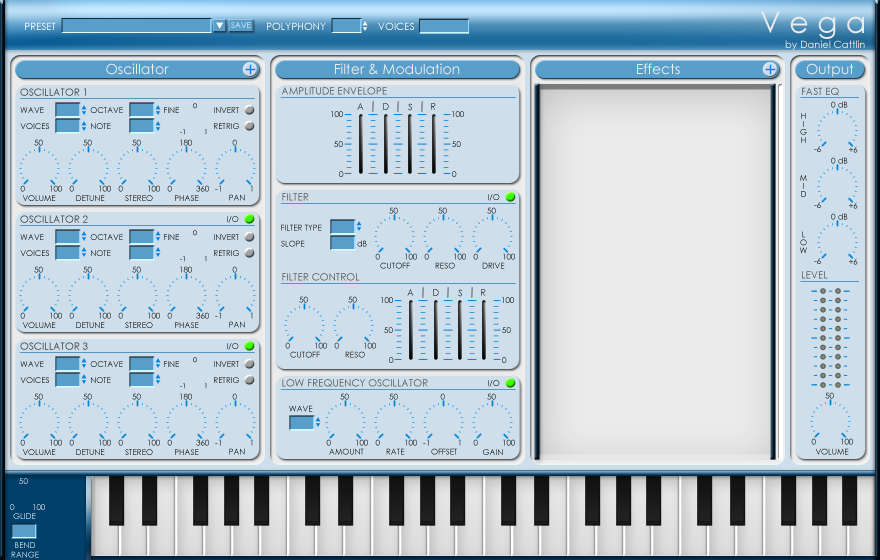
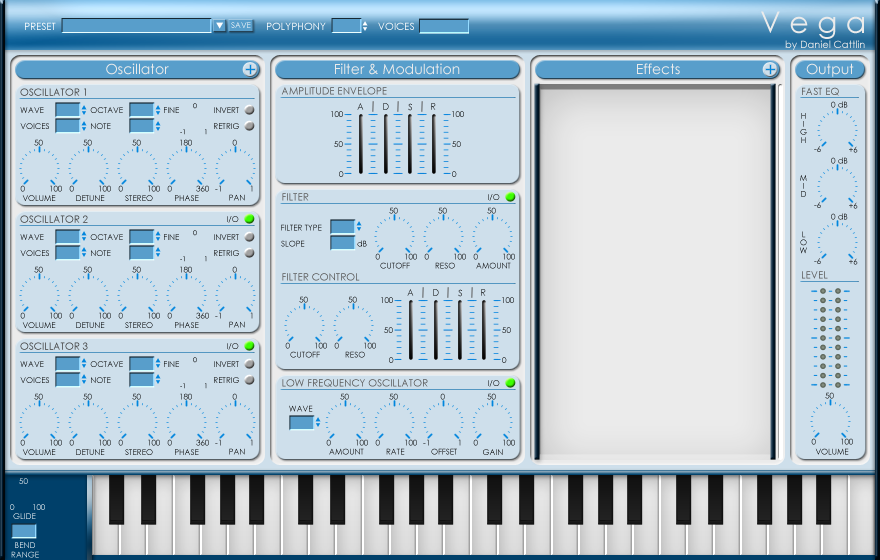
Adding interactive GUI

Changed region(s): [[0.092, 0.85, 1.0, 1.0], [0.092, 0.85, 0.1227, 0.9411], [0.5523, 0.4554, 0.583, 0.4857]]

diff --git a/Vega.cpp b/Vega.cpp
@@ -66,6 +66,9 @@ enum EParams
   mEQMid,
   mEQLow,
   mVolume,
+  mBendRange,
+  mGlide,
+  mPitchMod,
   kNumParams
 };
 
@@ -82,64 +85,67 @@ typedef struct
 } paramProperties;
 
 const paramProperties paramProps[kNumParams] = {
-  { "Osc 1 Wave", 30, 75, 0., 0., 0. },
-  { "Osc 1 Octave", 30, 75, 0., 0., 0. },
-  { "Osc 1 Voices", 30, 75, 0., 0., 0. },
-  { "Osc 1 Pitch", 69, 61, 0., 0., 0. },
-  { "Osc 1 Invert", 30, 75, 0., 0., 0. },
-  { "Osc 1 Retrig", 30, 75, 0., 0., 0. },
-  { "Osc 1 Fine", 30, 75, 0., -1., 1. },
-  { "Osc 1 Volume", 30, 75, 0., 0., 1. },
-  { "Osc 1 Detune", 30, 75, 0., 0., 1. },
-  { "Osc 1 Stereo", 30, 75, 0., 0., 1. },
-  { "Osc 1 Phase", 30, 75, 0., 0., 1. },
-  { "Osc 1 Pan", 30, 75, 0., -1., 1. },
-  { "Osc 2 Wave", 30, 75, 0., 0., 0. },
-  { "Osc 2 Octave", 30, 75, 0., 0., 0. },
-  { "Osc 2 Voices", 30, 75, 0., 0., 0. },
-  { "Osc 2 Pitch", 69, 61, 0., 0., 0. },
-  { "Osc 2 Invert", 30, 75, 0., 0., 0. },
-  { "Osc 2 Retrig", 30, 75, 0., 0., 0. },
-  { "Osc 2 Fine", 30, 75, 0., -1., 1. },
-  { "Osc 2 Volume", 30, 75, 0., 0., 1. },
-  { "Osc 2 Detune", 30, 75, 0., 0., 1. },
-  { "Osc 2 Stereo", 30, 75, 0., 0., 1. },
-  { "Osc 2 Phase", 30, 75, 0., 0., 1. },
-  { "Osc 2 Pan", 30, 75, 0., -1., 1. },
-  { "Osc 3 Wave", 30, 75, 0., 0., 0. },
-  { "Osc 3 Octave", 30, 75, 0., 0., 0. },
-  { "Osc 3 Voices", 30, 75, 0., 0., 0. },
-  { "Osc 3 Pitch", 69, 61, 0., 0., 0. },
-  { "Osc 3 Invert", 30, 75, 0., 0., 0. },
-  { "Osc 3 Retrig", 30, 75, 0., 0., 0. },
-  { "Osc 3 Fine", 30, 75, 0., -1., 1. },
-  { "Osc 3 Volume", 30, 75, 0., 0., 1. },
-  { "Osc 3 Detune", 30, 75, 0., 0., 1. },
-  { "Osc 3 Stereo", 30, 75, 0., 0., 1. },
-  { "Osc 3 Phase", 30, 75, 0., 0., 1. },
-  { "Osc 3 Pan", 30, 75, 0., -1., 1. },
-  { "Filter Type", 30, 188, 0., 0., 0. },
-  { "Filter Slope", 30, 188, 0., 0., 0. },
-  { "Filter Cutoff", 69, 174, 0.99, 0.0, 0.99 },
-  { "Filter Resonance", 124, 174, 0.0, 0.0, 1.0 },
-  { "Filter Env Amount", 234, 174, 0.0, -1.0, 1.0 },
-  { "Volume Env Attack", 323, 61, 0.01, 0.01, 10.0 },
-  { "Volume Env Decay", 378, 61, 0.5, 0.01, 15.0 },
-  { "Volume Env Sustain", 433, 61, 0.1, 0.001, 1.0 },
-  { "Volume Env Release", 488, 61, 1.0, 0.01, 15.0 },
-  { "Filter Env Attack", 323, 174, 0.01, 0.01, 10.0 },
-  { "Filter Env Decay", 378, 174, 0.5, 0.01, 15.0 },
-  { "Filter Env Sustain", 433, 174, 0.1, 0.001, 1.0 },
-  { "Filter Env Release", 488, 174, 1.0, 0.01, 15.0 },
-  { "LFO Waveform", 30, 298, 0., 0., 0. },
-  { "LFO Amount", 179, 174, 0.0, 0.0, 1.0 },
-  { "LFO Frequency", 69, 284, 6.0, 0.01, 30.0 },
-  { "LFO Offset", 69, 284, 6.0, 0.01, 30.0 },
-  { "LFO Gain", 69, 284, 6.0, 0.01, 30.0 },
-  { "EQ High", 323, 174, 1.0, 0.0, 2.0 },
-  { "EQ Mid", 378, 174, 1.0, 0.0, 2.0 },
-  { "EQ Low", 433, 174, 1.0, 0.0, 2.0 },
-  { "Out Vol", 433, 174, 1.0, 0.0, 1.0 }
+  { "Osc 1 Wave", 57, 104, 0., 0., 0. },
+  { "Osc 1 Octave", 131, 104, 0., 0., 0. },
+  { "Osc 1 Voices", 57, 120, 0., 0., 0. },
+  { "Osc 1 Pitch", 131, 120, 0., 0., 0. },
+  { "Osc 1 Invert", 244, 104, 0., 0., 0. },
+  { "Osc 1 Retrig", 244, 120, 0., 0., 0. },
+  { "Osc 1 Fine", 180, 106, 0., -1., 1. },
+  { "Osc 1 Volume", 20, 149, 0., 0., 1. },
+  { "Osc 1 Detune", 69, 149, 0., 0., 1. },
+  { "Osc 1 Stereo", 118, 149, 0., 0., 1. },
+  { "Osc 1 Phase", 167, 149, 0., 0., 1. },
+  { "Osc 1 Pan", 216, 149, 0., -1., 1. },
+  { "Osc 2 Wave", 57, 231, 0., 0., 0. },
+  { "Osc 2 Octave", 131, 231, 0., 0., 0. },
+  { "Osc 2 Voices", 57, 247, 0., 0., 0. },
+  { "Osc 2 Pitch", 131, 247, 0., 0., 0. },
+  { "Osc 2 Invert", 244, 231, 0., 0., 0. },
+  { "Osc 2 Retrig", 244, 247, 0., 0., 0. },
+  { "Osc 2 Fine", 180, 233, 0., -1., 1. },
+  { "Osc 2 Volume", 20, 276, 0., 0., 1. },
+  { "Osc 2 Detune", 69, 276, 0., 0., 1. },
+  { "Osc 2 Stereo", 118, 276, 0., 0., 1. },
+  { "Osc 2 Phase", 167, 276, 0., 0., 1. },
+  { "Osc 2 Pan", 216, 276, 0., -1., 1. },
+  { "Osc 3 Wave", 57, 358, 0., 0., 0. },
+  { "Osc 3 Octave", 131, 358, 0., 0., 0. },
+  { "Osc 3 Voices", 57, 374, 0., 0., 0. },
+  { "Osc 3 Pitch", 131, 374, 0., 0., 0. },
+  { "Osc 3 Invert", 244, 358, 0., 0., 0. },
+  { "Osc 3 Retrig", 244, 374, 0., 0., 0. },
+  { "Osc 3 Fine", 180, 360, 0., -1., 1. },
+  { "Osc 3 Volume", 20, 403, 0., 0., 1. },
+  { "Osc 3 Detune", 69, 403, 0., 0., 1. },
+  { "Osc 3 Stereo", 118, 403, 0., 0., 1. },
+  { "Osc 3 Phase", 167, 403, 0., 0., 1. },
+  { "Osc 3 Pan", 216, 403, 0., -1., 1. },
+  { "Filter Type", 332, 221, 0., 0., 0. },
+  { "Filter Slope", 332, 237, 0., 0., 0. },
+  { "Filter Cutoff", 375, 217, 0.99, 0.0, 0.99 },
+  { "Filter Resonance", 424, 217, 0.0, 0.0, 1.0 },
+  { "Filter Env Amount", 473, 217, 0.0, -1.0, 1.0 },
+  { "Volume Env Attack", 350, 108, 0.01, 0.01, 10.0 },
+  { "Volume Env Decay", 375, 108, 0.5, 0.01, 15.0 },
+  { "Volume Env Sustain", 400, 108, 0.1, 0.001, 1.0 },
+  { "Volume Env Release", 424, 108, 1.0, 0.01, 15.0 },
+  { "Filter Env Attack", 400, 294, 0.01, 0.01, 10.0 },
+  { "Filter Env Decay", 425, 294, 0.5, 0.01, 15.0 },
+  { "Filter Env Sustain", 450, 294, 0.1, 0.001, 1.0 },
+  { "Filter Env Release", 474, 294, 1.0, 0.01, 15.0 },
+  { "LFO Waveform", 291, 417, 0., 0., 0. },
+  { "LFO Amount", 326, 403, 0.0, 0.0, 1.0 },
+  { "LFO Frequency", 375, 403, 6.0, 0.01, 30.0 },
+  { "LFO Offset", 424, 403, 6.0, 0.01, 30.0 },
+  { "LFO Gain", 473, 403, 6.0, 0.01, 30.0 },
+  { "EQ High", 818, 111, 1.0, 0.0, 2.0 },
+  { "EQ Mid", 818, 167, 1.0, 0.0, 2.0 },
+  { "EQ Low", 818, 223, 1.0, 0.0, 2.0 },
+  { "Out Vol", 811, 402, 1.0, 0.0, 1.0 },
+  { "Bend Range", 13, 525, 1.0, 0.0, 1.0 },
+  { "Glide", 9, 482, 1.0, 0.0, 1.0 },
+  { "Pitch Mod", 52, 481, 1.0, 0.0, 1.0 },
 };
 
 enum ELayout
@@ -276,7 +282,7 @@ void Vega::CreateGraphics() {
   IBitmap waveImage = pGraphics->LoadIBitmap(WAVE_ID, WAVE_FN, 4);
   IBitmap slopeImage = pGraphics->LoadIBitmap(SLOPE_ID, SLOPE_FN, 3);
   IBitmap voicesImage = pGraphics->LoadIBitmap(VOICES_ID, VOICES_FN, 8);
-  IBitmap octaveImage = pGraphics->LoadIBitmap(OCTAVE_ID, OCTAVE_FN, 7);
+  IBitmap octaveImage = pGraphics->LoadIBitmap(OCTAVE_ID, OCTAVE_FN, 9);
   IBitmap noteImage = pGraphics->LoadIBitmap(NOTE_ID, NOTE_FN, 15);
   IBitmap whiteKeyImage = pGraphics->LoadIBitmap(PIANO_WHT_ID, PIANO_WHT_FN, 6);
   IBitmap blackKeyImage = pGraphics->LoadIBitmap(PIANO_BLK_ID, PIANO_BLK_FN);
@@ -284,13 +290,14 @@ void Vega::CreateGraphics() {
   IBitmap sliderImage = pGraphics->LoadIBitmap(SLIDER_ID, SLIDER_FN, 1);
   IBitmap buttonGrnImage = pGraphics->LoadIBitmap(BUTTON_ID, BUTTON_FN, 1);
   IBitmap buttonAddImage = pGraphics->LoadIBitmap(ADD_ID, ADD_FN, 1);
+  IBitmap wheelImage = pGraphics->LoadIBitmap(PITCHMOD_ID, PITCHMOD_FN, 100);
 
   keyboardY = kHeight - 85;
-  keyboardX = kWidth - 800;
+  keyboardX = kWidth - 788;
 
-  int keyCoordinates[12] = { 0, 7, 12, 20, 24, 36, 43, 48, 56, 60, 69, 72 };
+  int keyCoordinates[12] = { 0, 17, 0, 49, 0, 0, 98, 0, 128, 0, 157, 0 };
   mVirtualKeyboard = new IKeyboardControl(this, keyboardX, keyboardY, virtualKeyboardMinimumNoteNumber,
-    5, &whiteKeyImage, &blackKeyImage, keyCoordinates);
+    4, &whiteKeyImage, &blackKeyImage, keyCoordinates);
   pGraphics->AttachControl(mVirtualKeyboard);
 
   for (int i = 0; i < kNumParams; i++) {
@@ -304,15 +311,15 @@ void Vega::CreateGraphics() {
     case mOsc3Wave:
     case mLFOWave:
       graphic = &waveImage;
-      control = new ISwitchControl(this, properties.x, properties.y, i, graphic);
+      control = new IKnobMultiControl(this, properties.x, properties.y, i, graphic);
       break;
     case mFilterType:
       graphic = &passImage;
-      control = new ISwitchControl(this, properties.x, properties.y, i, graphic);
+      control = new IKnobMultiControl(this, properties.x, properties.y, i, graphic);
       break;
     case mFilterSlope:
       graphic = &slopeImage;
-      control = new ISwitchControl(this, properties.x, properties.y, i, graphic);
+      control = new IKnobMultiControl(this, properties.x, properties.y, i, graphic);
       break;
     case mOsc1Invert:
     case mOsc1Retrig:  
@@ -320,8 +327,8 @@ void Vega::CreateGraphics() {
     case mOsc2Retrig:
     case mOsc3Invert:
     case mOsc3Retrig:
-      graphic = &buttonGrnImage;    
-      control = new ISwitchControl(this, properties.x, properties.y, i, graphic);
+      //graphic = &buttonGrnImage;    
+      //control = new ISwitchControl(this, properties.x, properties.y, i, graphic);
       break;
     case mVolAttack:
     case mVolDecay:
@@ -332,36 +339,39 @@ void Vega::CreateGraphics() {
     case mFilterSustain:
     case mFilterRelease:
       graphic = &sliderImage;
-      control = new IFaderControl(this, properties.x, properties.y, 50, i, graphic);
+      control = new IFaderControl(this, properties.x, properties.y, 73, i, graphic);
       break;
     case mOsc1Voices:
     case mOsc2Voices:
     case mOsc3Voices:
       graphic = &voicesImage;
-      control = new ISwitchControl(this, properties.x, properties.y, i, graphic);
+      control = new IKnobMultiControl(this, properties.x, properties.y, i, graphic);
       break;
     case mOsc1Oct:
     case mOsc2Oct:
     case mOsc3Oct:
       graphic = &octaveImage;
-      control = new ISwitchControl(this, properties.x, properties.y, i, graphic);
+      control = new IKnobMultiControl(this, properties.x, properties.y, i, graphic);
       break;
     case mOsc1Pitch:
     case mOsc2Pitch:
     case mOsc3Pitch:
+    case mBendRange:
       graphic = &noteImage;
-      control = new ISwitchControl(this, properties.x, properties.y, i, graphic);
+      control = new IKnobMultiControl(this, properties.x, properties.y, i, graphic);
       break;
     case mOsc1Fine:
     case mOsc2Fine:
     case mOsc3Fine:
+    case mGlide:
       graphic = &miniKnobImage;
       control = new IKnobMultiControl(this, properties.x, properties.y, i, graphic);
       break;
-    case mVolume:
-      graphic = &waveImage;
-      control = new ISwitchControl(this, properties.x, properties.y, i, graphic);
+    case mPitchMod:
+      graphic = &wheelImage;
+      control = new IKnobMultiControl(this, properties.x, properties.y, i, graphic);
       break;
+    // add pic
     default:
       graphic = &knobImage;
       control = new IKnobMultiControl(this, properties.x, properties.y, i, graphic);

diff --git a/resource.h b/resource.h
@@ -74,22 +74,24 @@ instrument determined by PLUG _IS _INST
 #define ADD_ID 112
 #define NOTE_ID 113
 #define MINIKNOB_ID 114
+#define PITCHMOD_ID 115
 
 // Image resource locations for this plug.
 #define KNOB_FN "resources/img/VegaKnob.png"
 #define BACKGROUND_FN "resources/img/VegaClearBG.png"
-#define PIANO_BLK_FN "resources/img/blackkey.png"
-#define PIANO_WHT_FN "resources/img/whitekey.png"
-#define PASS_FN "resources/img/filtermode.png"
-#define SLIDER_FN "resources/img/filtermode.png"
-#define VOICES_FN "resources/img/filtermode.png"
-#define SLOPE_FN "resources/img/filtermode.png"
-#define WAVE_FN "resources/img/filtermode.png"
-#define OCTAVE_FN "resources/img/filtermode.png"
+#define PIANO_BLK_FN "resources/img/BlackKeyPressed.png"
+#define PIANO_WHT_FN "resources/img/WhiteKeysPressed.png"
+#define PASS_FN "resources/img/PassSwitch.png"
+#define SLIDER_FN "resources/img/VegaSlider.png"
+#define VOICES_FN "resources/img/Voices.png"
+#define SLOPE_FN "resources/img/Slope.png"
+#define WAVE_FN "resources/img/Waves.png"
+#define OCTAVE_FN "resources/img/Octave.png"
 #define BUTTON_FN "resources/img/filtermode.png"
 #define ADD_FN "resources/img/filtermode.png"
-#define NOTE_FN "resources/img/filtermode.png"
-#define MINIKNOB_FN "resources/img/VegaMiniKnob"
+#define NOTE_FN "resources/img/Note.png"
+#define MINIKNOB_FN "resources/img/VegaMiniKnob.png"
+#define PITCHMOD_FN "resources/img/BendWheel.png"
 
 // GUI default dimensions
 #define GUI_WIDTH 880
